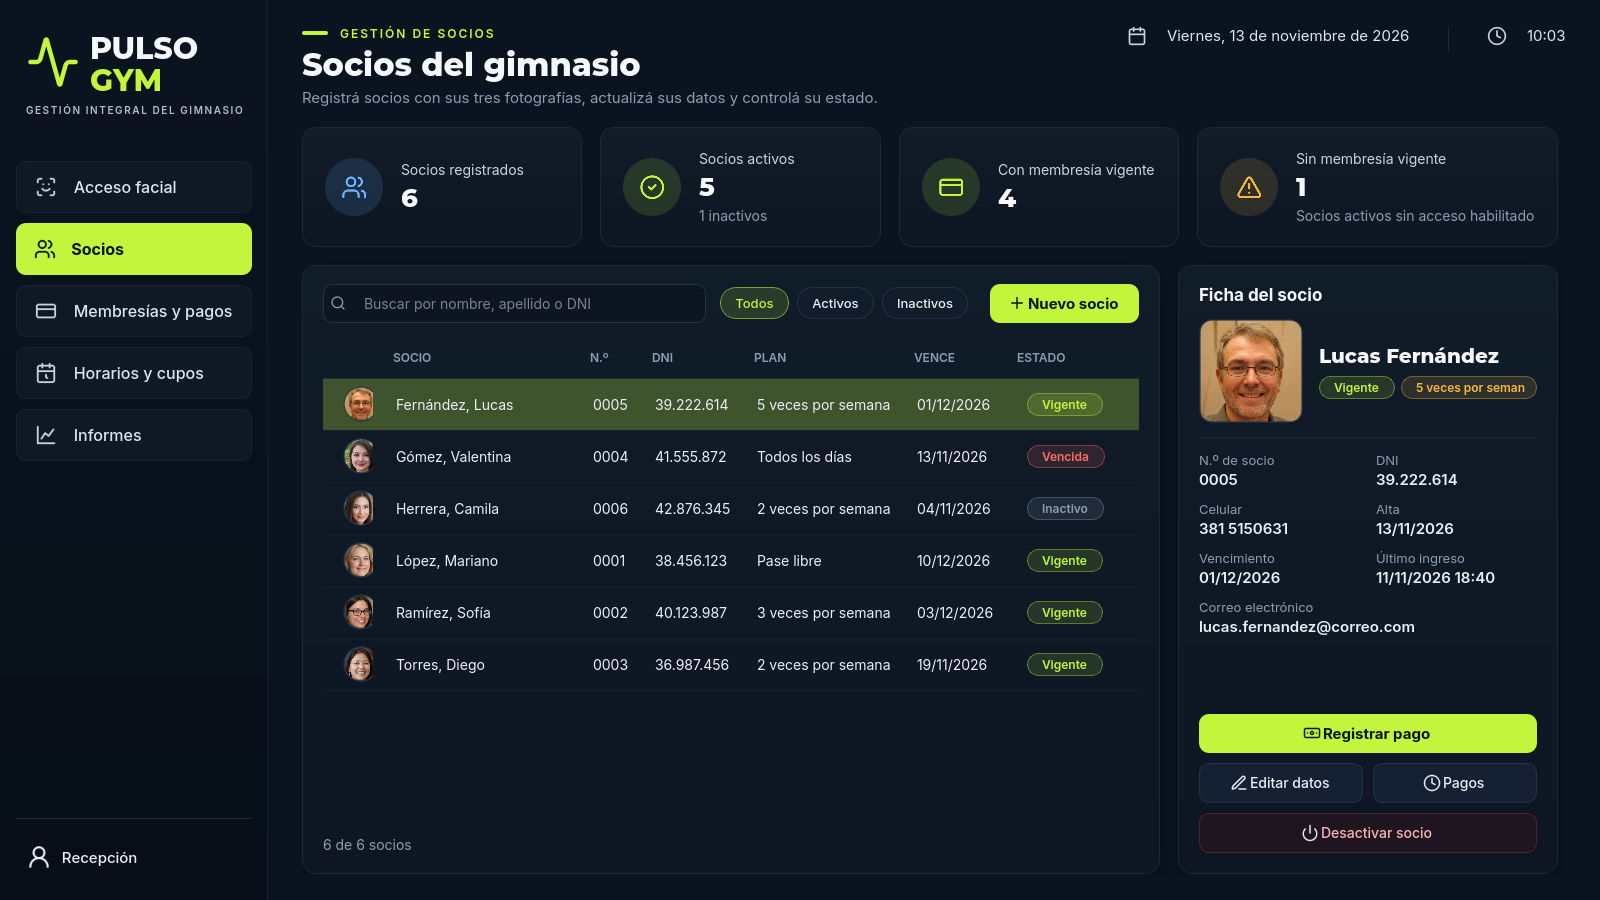
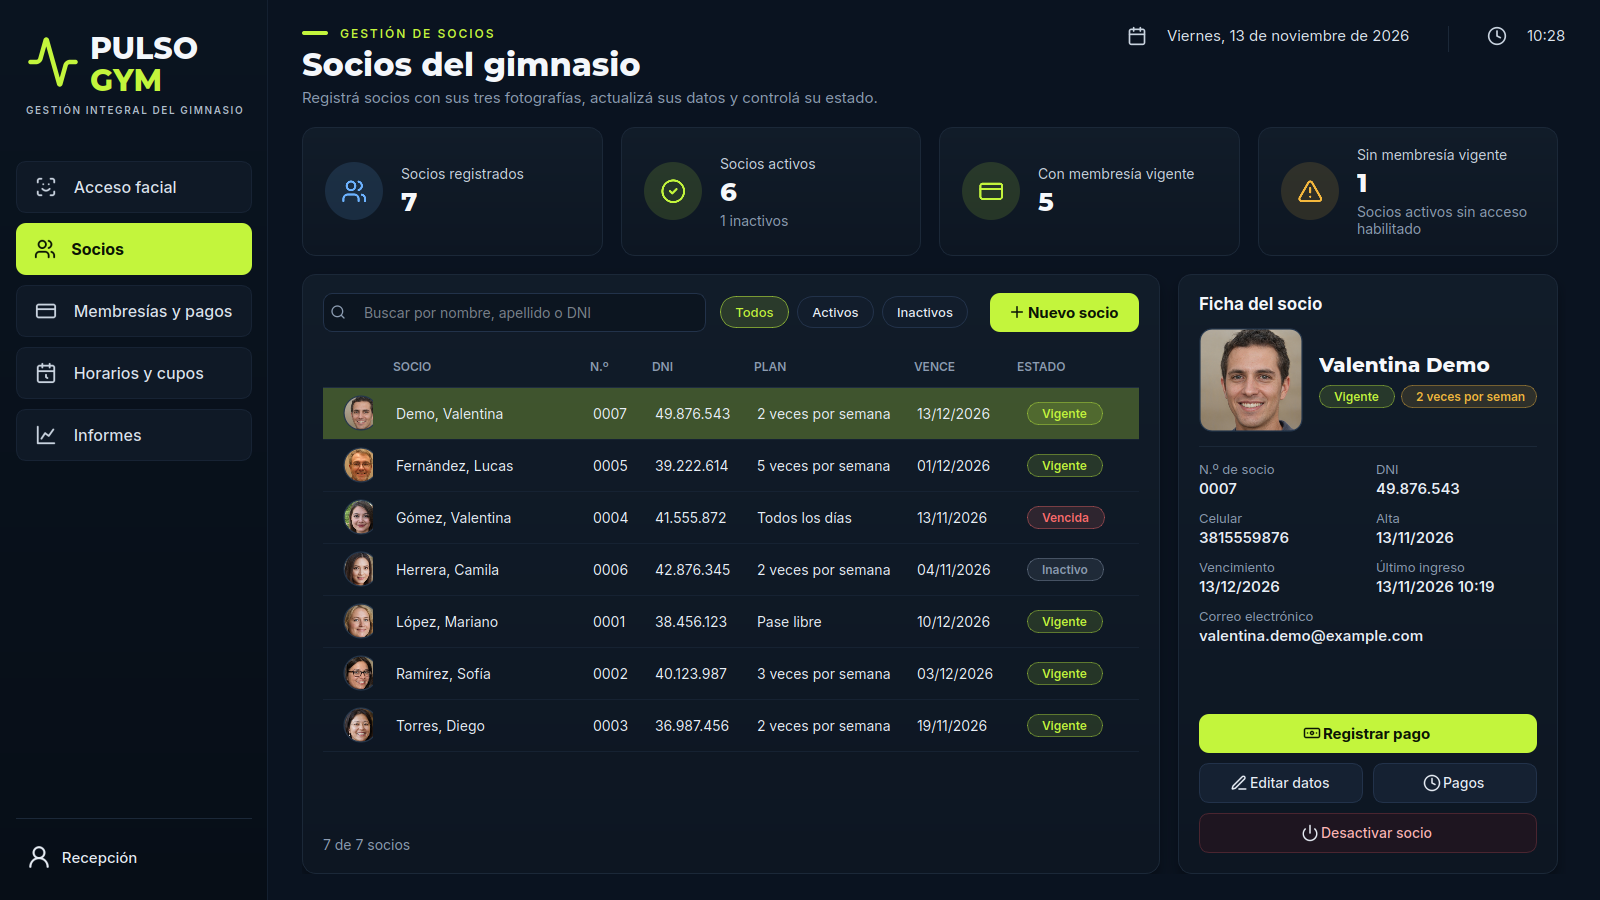
Corrige cupo «None de N», subtítulo de diálogos y tablas angostas; capturas finales e instalación en Windows 11

diff --git a/src/ui/paginas.py b/src/ui/paginas.py
@@ -11,7 +11,7 @@ from src.domain import presentacion as fmt
 from src.domain.reglas import ahora_local, un_mes
 from src.reports.gimnasio import exportar
 from src.ui import iconos, tema
-from src.ui.componentes import (Avatar, BarraProgreso, Barras, Insignia, Kpi, Tarjeta, boton, celda_insignia,
+from src.ui.componentes import (Avatar, BarraProgreso, Barras, ColumnasOpcionales, Insignia, Kpi, Tarjeta, boton, celda_insignia,
                                 etiqueta, fijar_ancho, separador, tabla)
 from src.ui.dialogos import DialogoHistorial, DialogoSocio, preguntar
 
@@ -120,6 +120,7 @@ class PaginaSocios(Pagina):
         barra.addWidget(boton('Nuevo socio', 'mas', 'primario', al_click=lambda: self.v.intentar(self.nuevo)))
         lista.cuerpo.addLayout(barra)
         self.tabla = tabla(['', 'Socio', 'N.º', 'DNI', 'Plan', 'Vence', 'Estado'], estirar=1)
+        ColumnasOpcionales(self.tabla, [2, 3], 780)
         fijar_ancho(self.tabla, 0, 60)
         fijar_ancho(self.tabla, 6, 132)
         self.tabla.itemSelectionChanged.connect(self.seleccionar)
@@ -311,6 +312,7 @@ class PaginaMembresias(Pagina):
         barra.addWidget(self.busqueda)
         lista.cuerpo.addLayout(barra)
         self.tabla = tabla(['Socio', 'Plan', 'Inicio', 'Vence', 'Uso del mes', 'Estado'], estirar=0)
+        ColumnasOpcionales(self.tabla, [1, 2], 820)
         fijar_ancho(self.tabla, 4, 170)
         fijar_ancho(self.tabla, 5, 132)
         self.tabla.itemSelectionChanged.connect(self.elegir_de_tabla)

diff --git a/src/ui/componentes.py b/src/ui/componentes.py
@@ -1,5 +1,5 @@
 """Widgets reutilizables del diseño PULSO GYM."""
-from PySide6.QtCore import QRectF, QSize, Qt
+from PySide6.QtCore import QEvent, QObject, QRectF, QSize, Qt
 from PySide6.QtGui import QColor, QFont, QPainter, QPainterPath, QPen, QPixmap
 from PySide6.QtWidgets import (QFrame, QGraphicsDropShadowEffect, QHBoxLayout, QHeaderView, QLabel,
                                QPushButton, QSizePolicy, QTableWidget, QVBoxLayout, QWidget)
@@ -246,6 +246,20 @@ def tabla(columnas, estirar=None):
     h.setSectionResizeMode(QHeaderView.ResizeToContents)
     h.setSectionResizeMode(estirar if estirar is not None else len(columnas) - 1, QHeaderView.Stretch)
     return t
+
+
+class ColumnasOpcionales(QObject):
+    """Oculta columnas secundarias cuando la tabla es angosta, para no truncar los nombres."""
+    def __init__(self, tabla, columnas, ancho_minimo):
+        super().__init__(tabla)
+        self.tabla, self.columnas, self.ancho = tabla, columnas, ancho_minimo
+        tabla.installEventFilter(self)
+
+    def eventFilter(self, objeto, evento):
+        if evento.type() == QEvent.Resize:
+            for c in self.columnas:
+                self.tabla.setColumnHidden(c, self.tabla.width() < self.ancho)
+        return False
 
 
 def fijar_ancho(t, columna, ancho):

diff --git a/src/ui/dialogos.py b/src/ui/dialogos.py
@@ -51,11 +51,19 @@ class Dialogo(QDialog):
         t = etiqueta(titulo, 'tituloTarjeta')
         t.setStyleSheet('font-size: 20px;')
         col.addWidget(t)
-        if subtitulo:
-            col.addWidget(etiqueta(subtitulo, 'tenue', ajuste=True))
+        self._subtitulo = etiqueta(subtitulo, 'tenue', ajuste=True) if subtitulo else None
+        if self._subtitulo:
+            col.addWidget(self._subtitulo)
         cab.addLayout(col, 1)
         self.cuerpo.addLayout(cab)
         self.cuerpo.addWidget(separador())
+
+    def showEvent(self, evento):
+        # Los QLabel con ajuste no informan su alto real al calcular el tamaño mínimo del diálogo.
+        if self._subtitulo:
+            self._subtitulo.setMinimumHeight(self._subtitulo.heightForWidth(self._subtitulo.width()))
+            self.adjustSize()
+        super().showEvent(evento)
 
     def botonera(self, texto_ok, al_ok, icono='check'):
         fila = QHBoxLayout()

diff --git a/tests/test_gimnasio.py b/tests/test_gimnasio.py
@@ -185,6 +185,8 @@ class PresentacionTest(unittest.TestCase):
         self.assertIsNone(variacion(5,0)); self.assertEqual(variacion(112,100),12); self.assertEqual(variacion(50,100),-50)
 
     def test_restantes_por_tipo_de_plan(self):
+        from src.domain.presentacion import texto_restantes as tr
+        self.assertEqual(tr({'cupo': 8}, None), '—')
         from src.domain.presentacion import texto_restantes
         self.assertEqual(texto_restantes({'cupo':12,'una_vez_dia':False},3),'3 de 12')
         self.assertEqual(texto_restantes({'cupo':None,'una_vez_dia':True},None),'1 por día')

diff --git a/src/domain/presentacion.py b/src/domain/presentacion.py
@@ -55,7 +55,7 @@ def texto_restantes(membresia, restantes):
     if not membresia:
         return '—'
     if membresia.get('cupo'):
-        return f"{restantes} de {membresia['cupo']}"
+        return '—' if restantes is None else f"{restantes} de {membresia['cupo']}"
     return '1 por día' if membresia.get('una_vez_dia') else 'Ilimitados'
 
 

diff --git a/README.md b/README.md
@@ -18,22 +18,35 @@ Identidad ficticia: PULSO GYM.
 
 La aplicación es de escritorio, no una página web ni un ejecutable sin instalación. No incluye personas, fotografías, pagos, contraseñas reales, modelos descargados ni la carpeta `.venv`.
 
-### Inicio manual en PowerShell
+### Windows 11 desde Visual Studio Code
+
+Requisitos: Windows 11 de 64 bits, **Python 3.12 de 64 bits** (marcar «Add python.exe to PATH»), **Git**, **Docker Desktop** abierto y en estado *running*, Visual Studio Code con la extensión Python, una webcam y pantalla de al menos **1360×780** (la ventana no se reduce por debajo de ese tamaño; se recomienda maximizarla).
+
+En una terminal de VS Code (PowerShell), la primera vez:
 
 ```powershell
+git clone https://github.com/Pedro1Aramayo/pulso-gym.git C:\proyectos\pulso-gym
+cd C:\proyectos\pulso-gym
+git switch devin/1794574039-rediseno-profesional
+code -r .
 py -3.12 -m venv .venv
+.\.venv\Scripts\python.exe -m pip install --upgrade pip
 .\.venv\Scripts\python.exe -m pip install -r requirements.txt
 Copy-Item .env.example .env
-# Editar .env antes de continuar.
+notepad .env   # reemplazar POSTGRES_PASSWORD antes del primer inicio de la base
 docker compose up -d --wait
 .\.venv\Scripts\python.exe main.py
 ```
+
+Las veces siguientes: `docker compose up -d --wait` y `.\.venv\Scripts\python.exe main.py` (o `iniciar.bat`). En VS Code, elegir el intérprete con Ctrl+Shift+P → «Python: Select Interpreter» → `.venv`. Si PowerShell bloquea scripts, no hace falta activar el entorno: los comandos usan `.venv\Scripts\python.exe` directamente.
+
+Webcam: en Configuración de Windows → Privacidad y seguridad → Cámara, habilitar «Permitir que las aplicaciones de escritorio accedan a la cámara». En la app, **Configurar cámara** → **Buscar cámaras** y elegir el índice detectado; cerrar Zoom/Teams/Cámara si la imagen no aparece. La primera apertura descarga los pesos de FaceNet512 (requiere Internet y puede demorar).
 
 Si `.env` ya existe, no repetir `Copy-Item`. Para detener únicamente esta base: `docker compose stop` desde esta carpeta. No borrar volúmenes del proyecto original.
 
 ## Interfaz
 
-Tema oscuro con acento verde lima, barra lateral con iconos y cinco secciones. Todos los valores (KPIs, últimos accesos, gráficos, cupos) se calculan desde PostgreSQL; la aplicación no incluye datos de ejemplo. Las capturas de `docs/capturas/` se tomaron con socios de prueba en una base local y rostros sintéticos generados por IA (no son personas reales).
+Tema oscuro con acento verde lima, barra lateral con iconos y cinco secciones. Todos los valores (KPIs, últimos accesos, gráficos, cupos) se calculan desde PostgreSQL; la aplicación no incluye datos de ejemplo. Las capturas de `docs/capturas/` se tomaron con socios de prueba en una base local y rostros sintéticos generados por IA (no son personas reales), usando un video como cámara simulada: no constituyen una validación con webcam física.
 
 | Pantalla | Contenido |
 |---|---|
@@ -45,7 +58,7 @@ Tema oscuro con acento verde lima, barra lateral con iconos y cinco secciones. T
 
 **Configuración de cámara** (en Acceso facial o en el menú *Recepción*) permite elegir la webcam por índice, un archivo de video o una URL; el valor se recuerda en el equipo y tiene prioridad sobre `CAMERA_INDEX`.
 
-![Acceso facial](docs/capturas/01-acceso-socio-reconocido.png)
+![Acceso facial](docs/capturas/01-socio-reconocido.png)
 
 ## Qué se implementó
 
